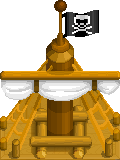
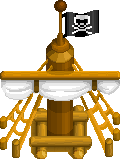
콜리전 이어서

diff --git a/CrazyArcade/CrazyArcade/Collision_Manager.h b/CrazyArcade/CrazyArcade/Collision_Manager.h
@@ -1,0 +1,22 @@
+#pragma once
+class CGameObject;
+class CItem;
+class CCollision_Manager
+{
+private:
+	CCollision_Manager();
+	~CCollision_Manager();
+public:
+	static bool Collision_Object(list<CGameObject*>* player, list<CGameObject*>* object);
+	/*static void Collision_Rect(list<CGameObject*>* listDest, list<CGameObject*>* listSrc);
+	static void Collision_Portal(list<CGameObject*>* player, list<CGameObject*>* portal);
+	static void Collision_Monster(list<CGameObject*>* player, list<CGameObject*>* monster);
+	static void Collision_Skill(list<CGameObject*>* skill, list<CGameObject*>* monster);
+	static void Collision_Boss(list<CGameObject*>* skill, list<CGameObject*>* boss);
+	static void Collision_BossSkill(list<CGameObject*>* skill, list<CGameObject*>* player);
+	static bool Collision_Rope(list<CGameObject*>* player, list<CGameObject*>* rope, const RECT** rc);
+	static void Collision_DropItem(list<CGameObject*>* player, list<CGameObject*>* dropItem);*/
+private:
+
+};
+

diff --git a/CrazyArcade/CrazyArcade/Wall.cpp b/CrazyArcade/CrazyArcade/Wall.cpp
@@ -33,12 +33,16 @@ void CWall::Render_GameObject()
 	//float centerX = float(textureInfo->imageInfo.Width >> 1);
 	//float centerY = float(textureInfo->imageInfo.Height >> 1);
 
+	float centerY = float(textureInfo->imageInfo.Height) - float(TILECY);
+
 	D3DXMatrixScaling(&matScale, m_info.size.x, m_info.size.y, 0.f);
 	D3DXMatrixTranslation(&matTrans, m_info.pos.x, m_info.pos.y, 0.f);
 	matWorld = matScale * matTrans;
 
+	matWorld = matScale * matTrans;
+
 	CGraphic_Device::Get_Instance()->Get_Sprite()->SetTransform(&matWorld);
-	CGraphic_Device::Get_Instance()->Get_Sprite()->Draw(textureInfo->texture, nullptr, &D3DXVECTOR3(/*centerX, centerY*/0, 0, 0.f), nullptr, D3DCOLOR_ARGB(255, 255, 255, 255));
+	CGraphic_Device::Get_Instance()->Get_Sprite()->Draw(textureInfo->texture, nullptr, &D3DXVECTOR3(/*centerX, centerY*/0, centerY, 0.f), nullptr, D3DCOLOR_ARGB(255, 255, 255, 255));
 
 }
 

diff --git a/CrazyArcade/CrazyArcade/Collision_Manager.cpp b/CrazyArcade/CrazyArcade/Collision_Manager.cpp
@@ -1,0 +1,25 @@
+#include "framework.h"
+#include "Collision_Manager.h"
+#include "GameObject.h"
+
+CCollision_Manager::CCollision_Manager()
+{
+}
+
+CCollision_Manager::~CCollision_Manager()
+{
+}
+
+bool CCollision_Manager::Collision_Object(list<CGameObject*>* player, list<CGameObject*>* object)
+{
+	bool check = false;
+	for (auto & player_object : *player)
+	{
+		Object_Info temp = player_object->Get_Object_Info();
+
+		int indexX = temp.pos.x / (TILECX * 1.5);
+		int indexY = temp.pos.y / (TILECY * 1.5);
+		int index = indexX + indexY * TILEY;
+	}
+	return true;
+}

diff --git a/CrazyArcade/MFCTool/Terrain.h b/CrazyArcade/MFCTool/Terrain.h
@@ -10,7 +10,11 @@ public:
 	const vector<Tile_Info*>& Get_VecObj() { return m_vecObj; }
 public:
 	void Set_Tile(Tile_Info* tile) { m_vecTile[tile->index] = tile; }
-	void Set_Obj(Tile_Info* obj) { m_vecObj[obj->index] = obj;}
+	void Set_Obj(Tile_Info* obj)
+	{ 
+		m_vecObj[obj->index] = obj;
+		m_vecObj[obj->index]->pos = m_vecTile[obj->index]->pos;
+	}
 public:
 	void Set_View(CMFCToolView* view) { m_view = view; }
 public:

diff --git a/CrazyArcade/CrazyArcade/Player.cpp b/CrazyArcade/CrazyArcade/Player.cpp
@@ -7,7 +7,6 @@ CPlayer::CPlayer()
 	, m_startIndex(0.f)
 	, m_objectKey(L"Cappi")
 	, m_stateKey(L"Stand")
-	, m_info({})
 	, m_preState(CHARACTER_STATE::STAND)
 	, m_curState(CHARACTER_STATE::STAND)
 {
@@ -93,7 +92,7 @@ HRESULT CPlayer::Ready_GameObject()
 	m_info.dir = { 1.f,1.f,0.f };
 	m_info.size = { 1.5f,1.5f,0.f };
 	m_frame = { 0.f,4.f };
-	m_speed = 4.f;
+	m_speed = 1.f;
 	return S_OK;
 }
 

diff --git a/CrazyArcade/MFCTool/Terrain.cpp b/CrazyArcade/MFCTool/Terrain.cpp
@@ -231,8 +231,10 @@ void CTerrain::Tile_Change_Terrain(const D3DXVECTOR3 & pos, const wstring object
 		m_vecObj[index]->size.x= size.x;
 		m_vecObj[index]->size.y = size.y;
 		m_vecObj[index]->index = index;
-
-
+		m_vecObj[index]->pos.x = m_vecTile[index]->pos.x;
+		m_vecObj[index]->pos.y = m_vecTile[index]->pos.y;
+		m_vecObj[index]->pos.z = m_vecTile[index]->pos.z;
+	
 	}
 }
 

diff --git a/CrazyArcade/CrazyArcade/GameObject.h b/CrazyArcade/CrazyArcade/GameObject.h
@@ -6,10 +6,15 @@ public:
 	virtual ~CGameObject();
 
 public:
+	Object_Info& Get_Object_Info() { return m_info; }
+public:
 	virtual HRESULT Ready_GameObject()PURE;
 	virtual int Update_GameObject()PURE;
 	virtual void Late_Update_GameObject()PURE;
 	virtual void Render_GameObject()PURE;
 	virtual void Release_GameObject() PURE;
+
+protected:
+	Object_Info m_info;
 };
 

diff --git a/CrazyArcade/MFCTool/MFCToolView.cpp b/CrazyArcade/MFCTool/MFCToolView.cpp
@@ -146,7 +146,7 @@ void CMFCToolView::OnInitialUpdate()
 
 	if (FAILED(CTexture_Manager::Get_Instance()->Insert_Texture_Manager(TEXTURE_ID::TEXTURE_MULTI,
 		L"../Resource/Wall/Obj%d.png",
-		L"Wall", L"WallObj", 17)))
+		L"Wall", L"WallObj", 20)))
 		return;
 
 	if (FAILED(CTexture_Manager::Get_Instance()->Insert_Texture_Manager(TEXTURE_ID::TEXTURE_MULTI,

diff --git a/CrazyArcade/CrazyArcade/Player.h b/CrazyArcade/CrazyArcade/Player.h
@@ -17,7 +17,6 @@ public:
 	virtual void	Render_GameObject()	override;
 	virtual void	Release_GameObject()		override;
 private:
-	Object_Info m_info;
 	CHARACTER_STATE m_curState;
 	CHARACTER_STATE m_preState;
 	wstring m_objectKey;

diff --git a/CrazyArcade/CrazyArcade/GameObject.cpp b/CrazyArcade/CrazyArcade/GameObject.cpp
@@ -2,6 +2,7 @@
 #include "GameObject.h"
 
 CGameObject::CGameObject()
+	: m_info({})
 {
 }
 
